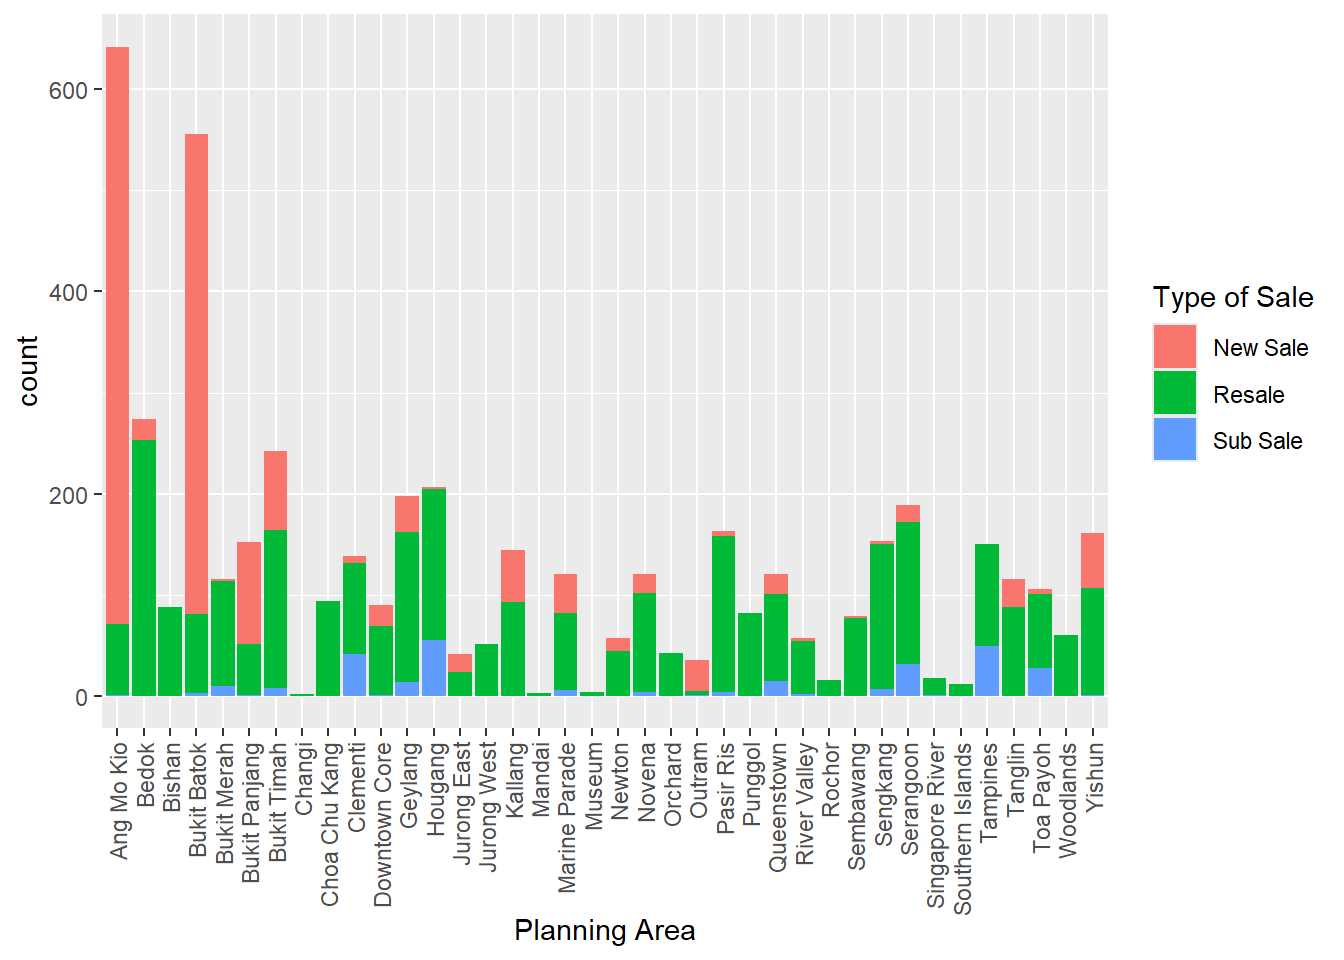
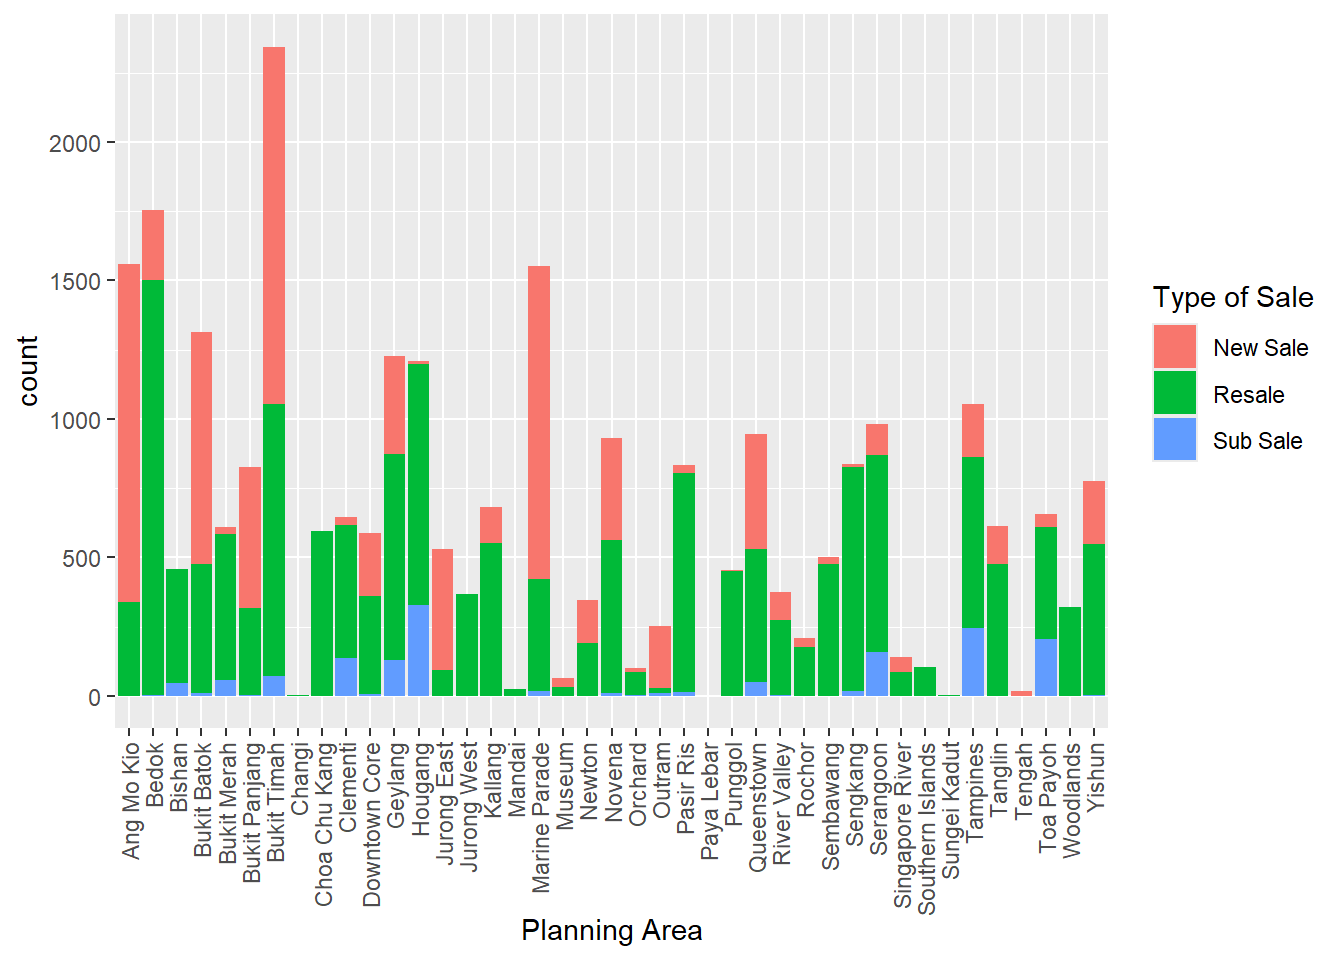
commit

Changed region(s): [[0.0312, 0.0312, 0.8438, 1.0]]

diff --git a/_site/Take-home Exercise/Take-home_Ex01/Take-home_Ex01.html b/_site/Take-home Exercise/Take-home_Ex01/Take-home_Ex01.html
@@ -503,7 +503,7 @@ $ Quarter                       &lt;chr&gt; "23Q1", "23Q1", "23Q1", "23Q1", "23Q
 </div>
 </div>
 <div class="cell">
-<div class="sourceCode cell-code" id="cb11"><pre class="sourceCode r code-with-copy"><code class="sourceCode r"><span id="cb11-1"><a href="#cb11-1" aria-hidden="true" tabindex="-1"></a><span class="fu">ggplot</span>(<span class="at">data =</span> data<span class="fl">.24</span>Q1,</span>
+<div class="sourceCode cell-code" id="cb11"><pre class="sourceCode r code-with-copy"><code class="sourceCode r"><span id="cb11-1"><a href="#cb11-1" aria-hidden="true" tabindex="-1"></a><span class="fu">ggplot</span>(<span class="at">data =</span> df,</span>
 <span id="cb11-2"><a href="#cb11-2" aria-hidden="true" tabindex="-1"></a>       <span class="fu">aes</span>(<span class="at">x =</span><span class="st">`</span><span class="at">Planning Area</span><span class="st">`</span>,</span>
 <span id="cb11-3"><a href="#cb11-3" aria-hidden="true" tabindex="-1"></a>           <span class="at">fill =</span> <span class="st">`</span><span class="at">Type of Sale</span><span class="st">`</span>)) <span class="sc">+</span></span>
 <span id="cb11-4"><a href="#cb11-4" aria-hidden="true" tabindex="-1"></a>  <span class="fu">geom_bar</span>() <span class="sc">+</span></span>
